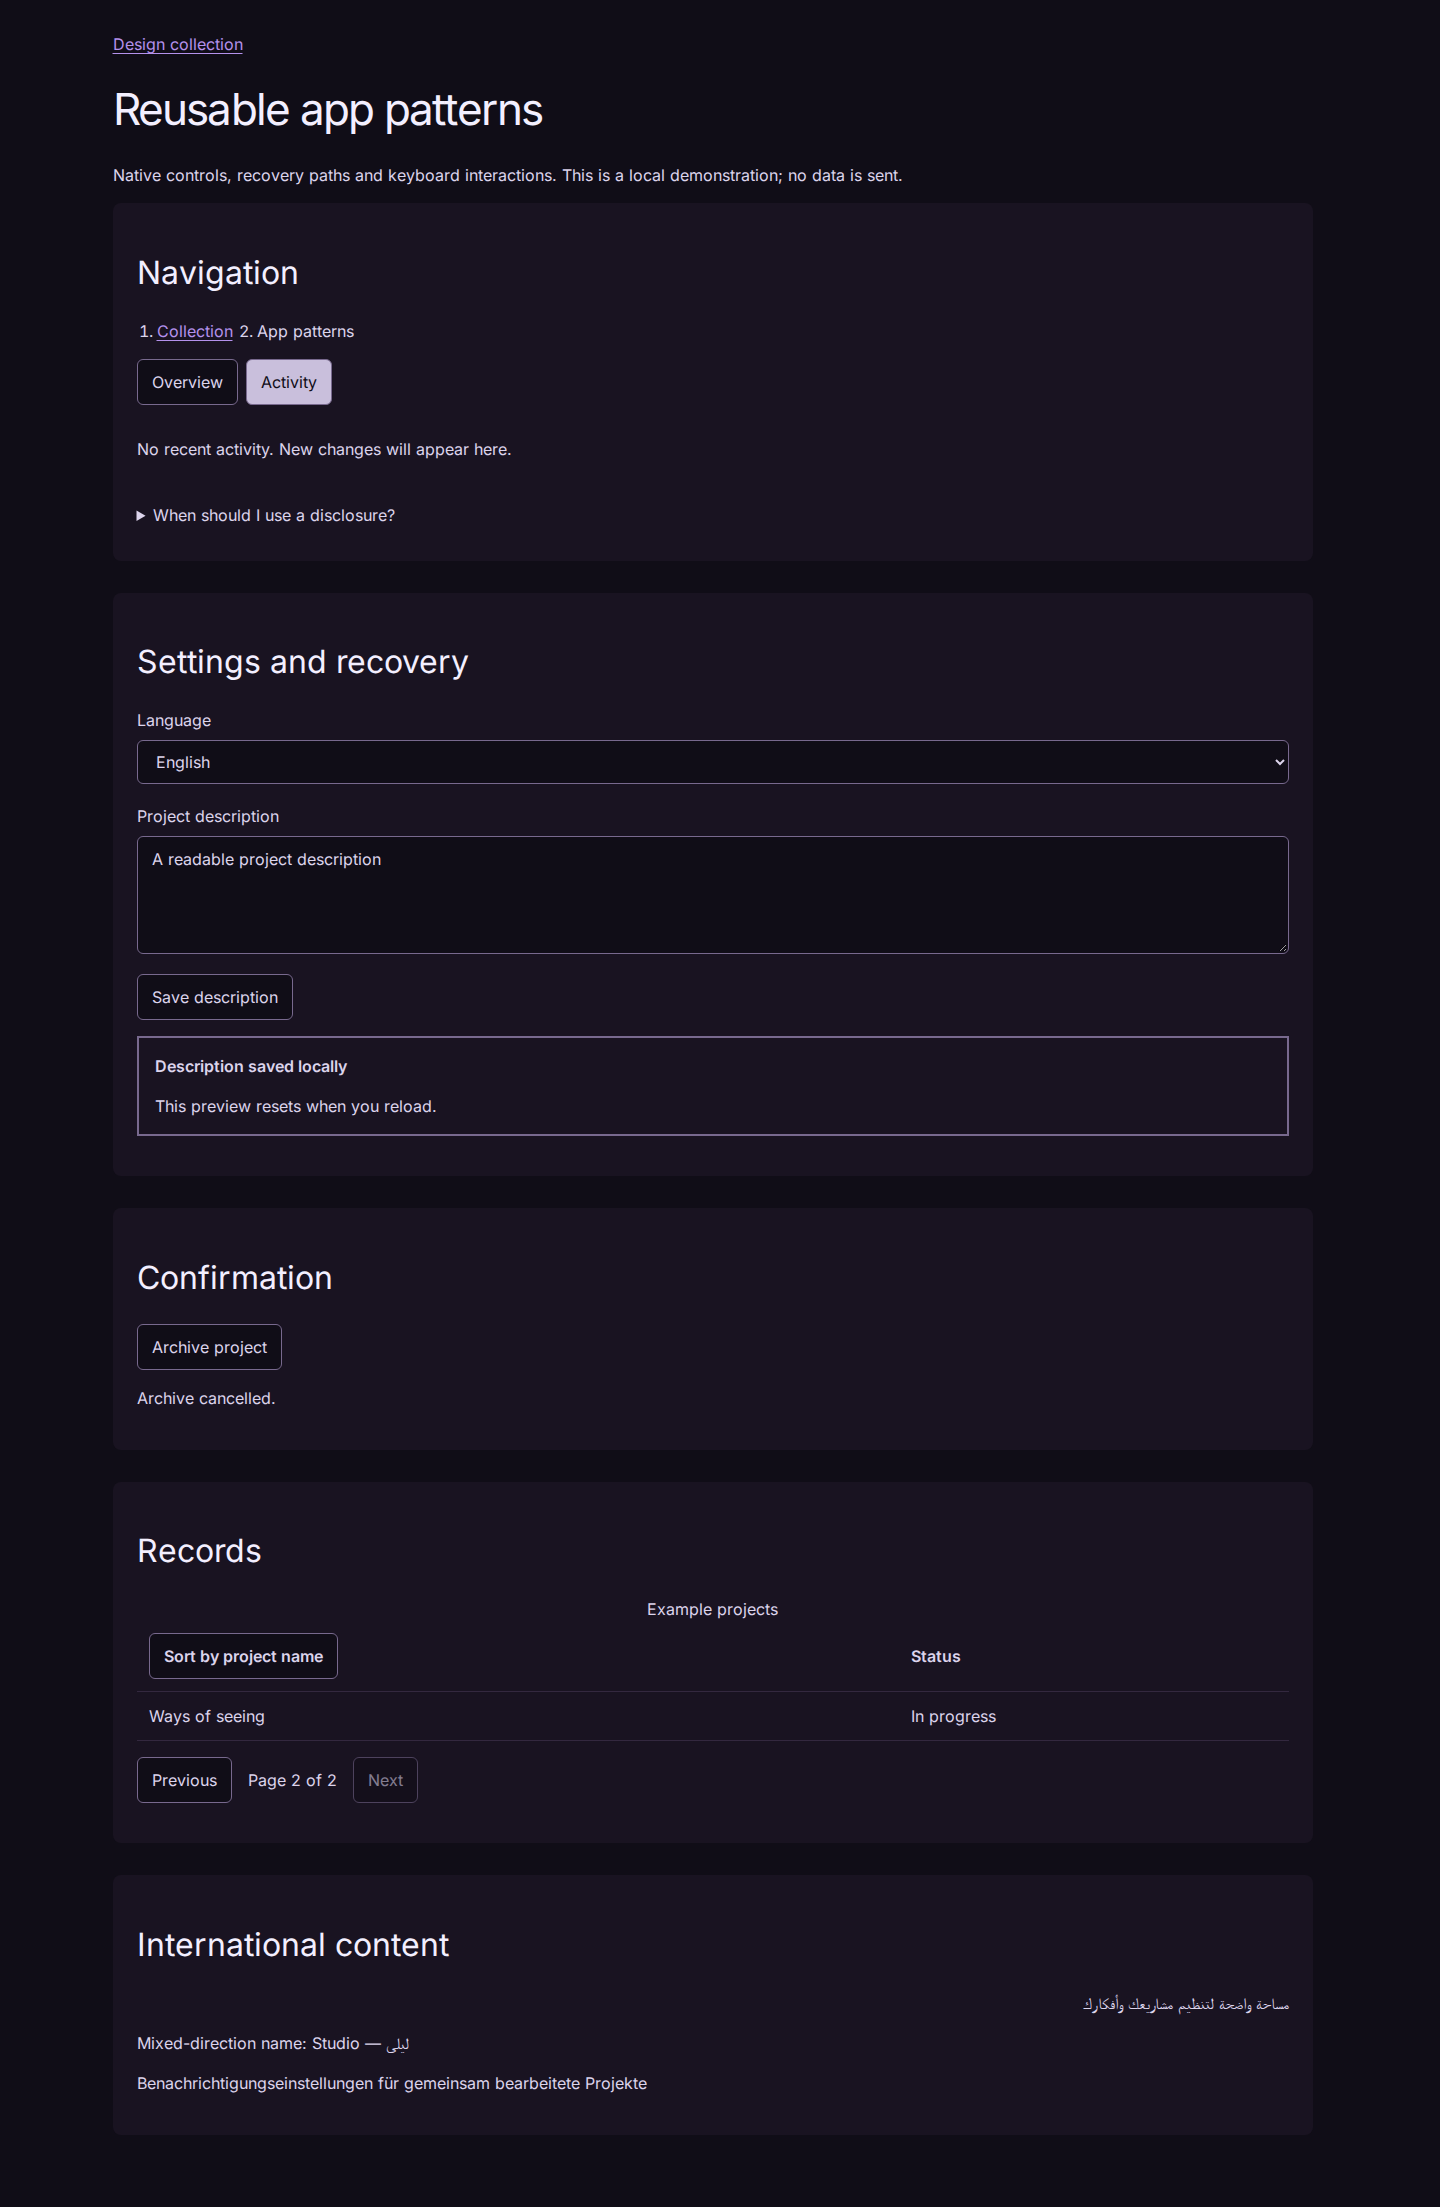
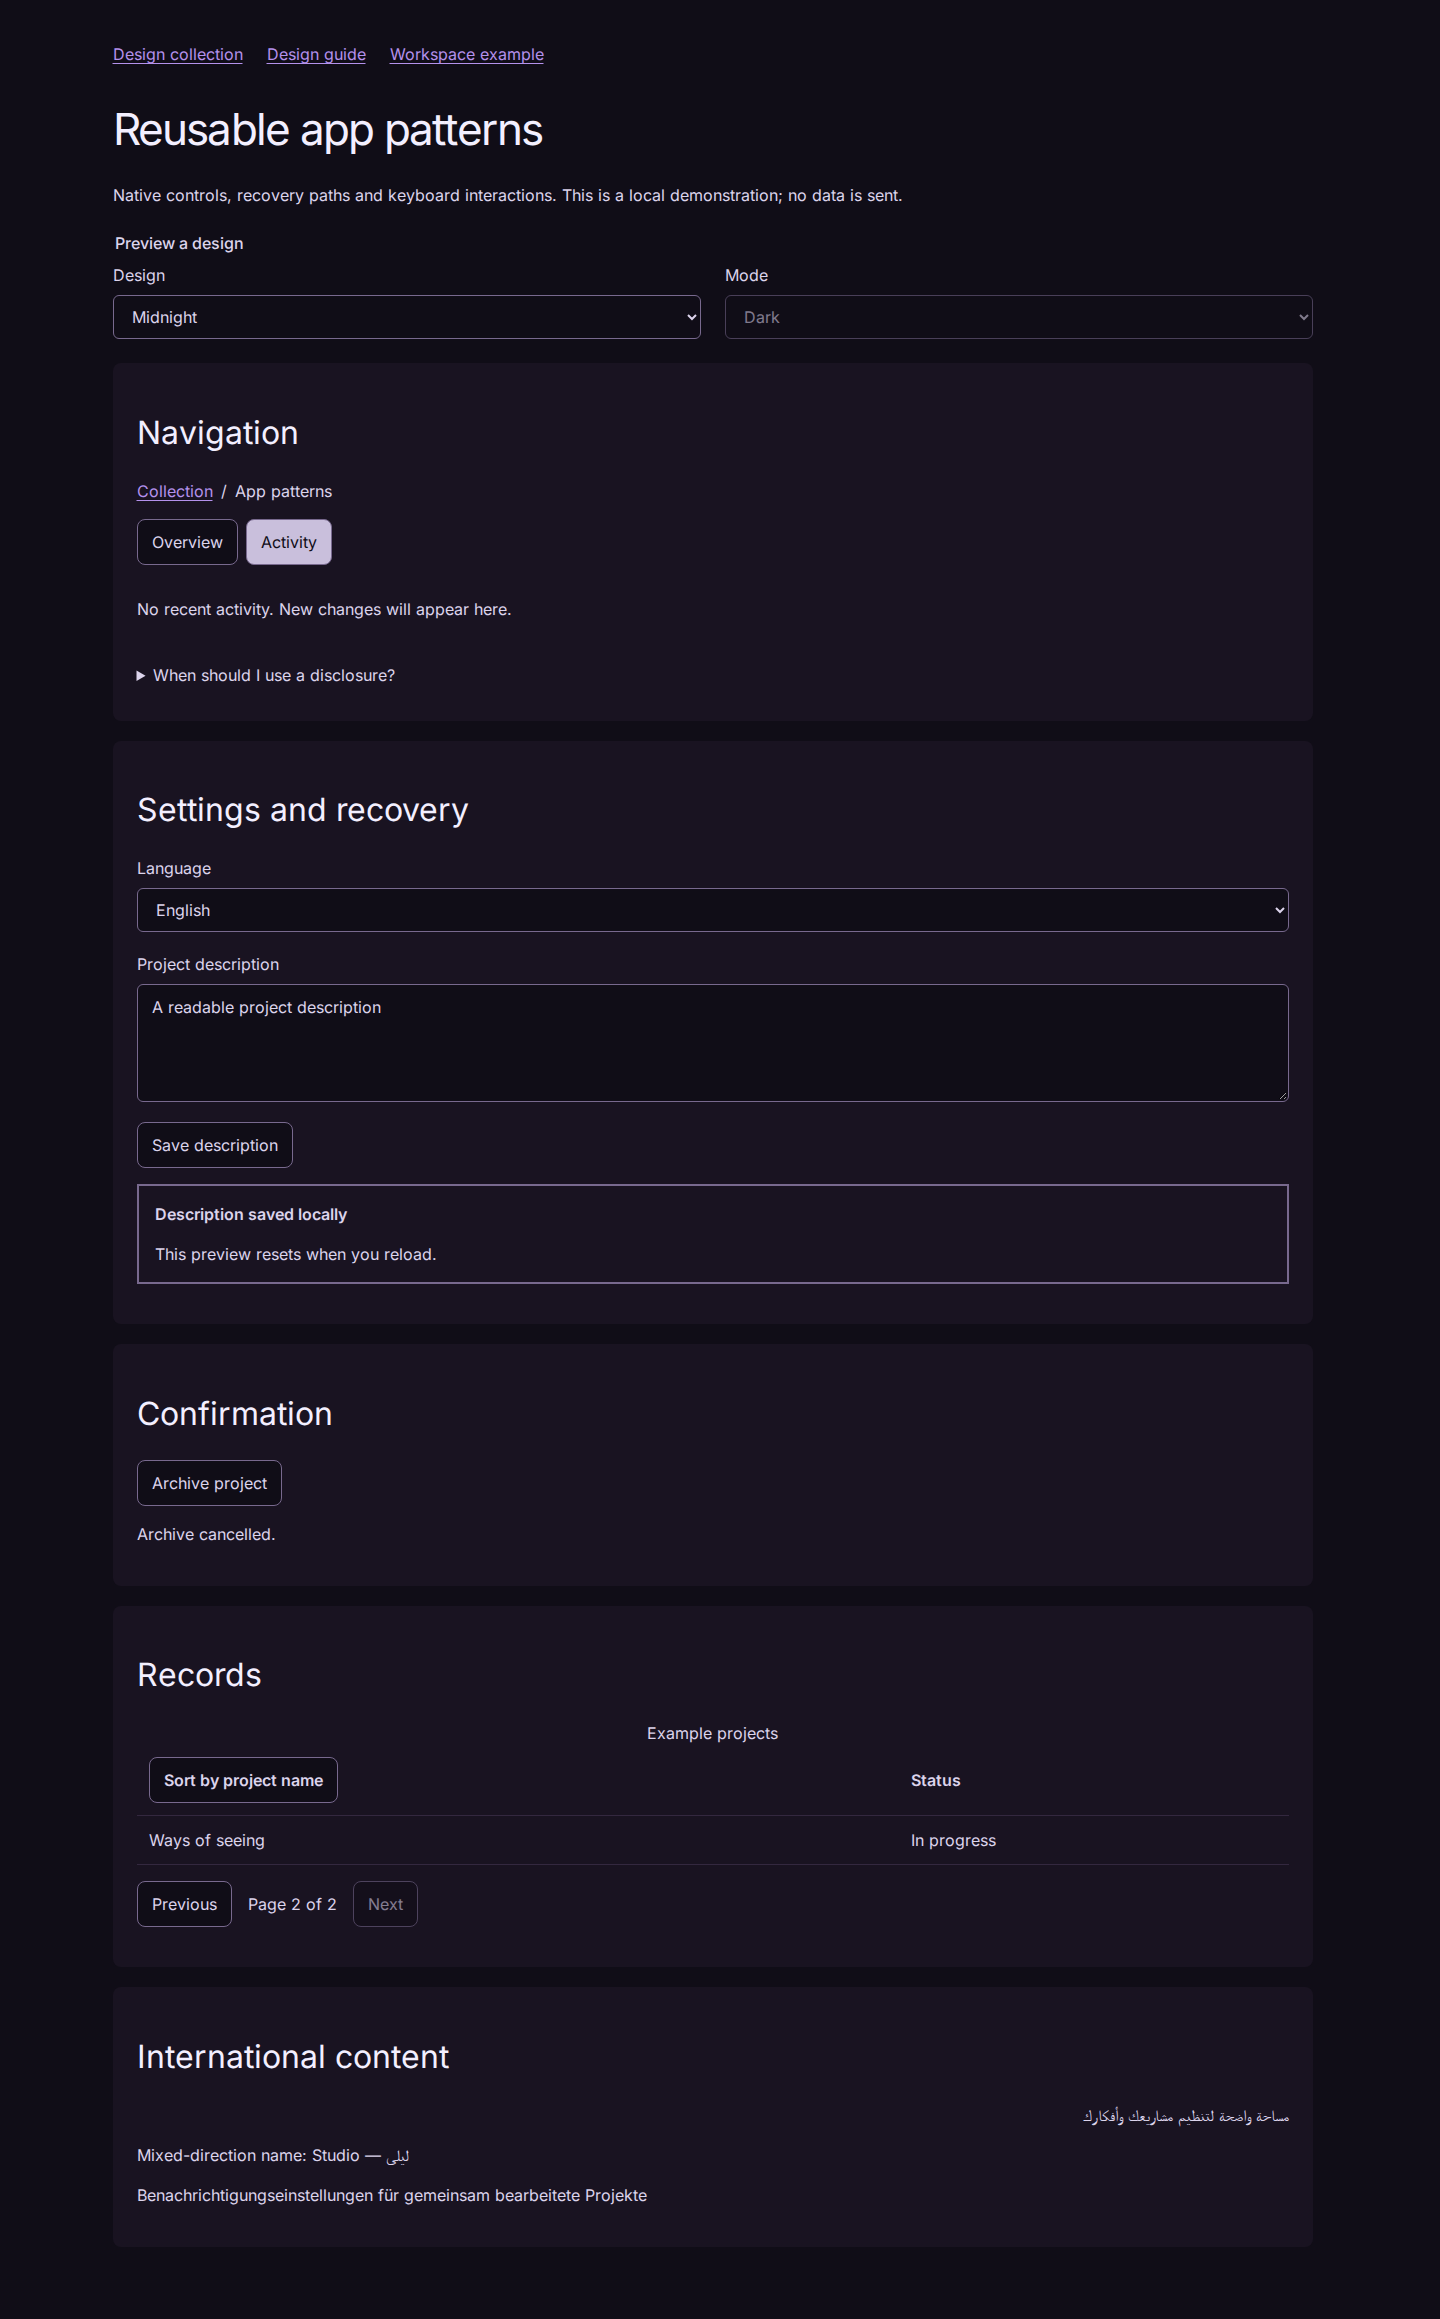
Align reviewed pattern previews and expand modal keyboard checks

diff --git a/docs/releases.md b/docs/releases.md
@@ -7,6 +7,7 @@ Midnight/dark remains the default. This minor release corrects the Preview resol
 - Dark-only DTCG resolvers now use unconditional sets. Before: a consumer passed `{ "mode": "dark" }` to every resolver. After: pass `{}` to Midnight, Invitation and the default bundle; multi-mode bundles still accept a mode input. Read exports/manifest.json for declared modes and follow resolutionOrder instead of assuming a modifier exists.
 - Pattern CSS scopes table/dialog/tab styling to its own components. Generated helpers carry their hooks automatically. For copied table compositions, add ds-table, ds-table-scroll and ds-table-controls to the corresponding elements. Keep existing application classes as needed. The prior broad table/dialog rules were an unintended side effect and are removed.
 - Pattern buttons and panel spacing follow the selected design's geometry. Breadcrumbs show navigation hierarchy, and form feedback clears when its saved state becomes stale.
+- Confirmation now wraps Tab and Shift+Tab inside the active dialog and removes its handler on close, while preserving Escape and return focus.
 - The patterns preview switches designs/modes without discarding local drafts, supports history, and links the exact selected-mode guide.
 - Browser checks now use usable clientWidth, verify design geometry, modal focus containment, sorting, stale feedback and host-component isolation. Visual failures no longer prevent later task checks from running.
 

diff --git a/docs/components.md b/docs/components.md
@@ -52,4 +52,6 @@ The patterns fixture demonstrates a captioned sortable table and bounded paginat
 
 Pattern styling is opt-in: helpers emit ds-select, ds-textarea, ds-dialog and data-ds-tabs hooks. Tables use ds-table inside ds-table-scroll, with ds-table-controls for pagination. Unrelated tables, dialogs and tab widgets retain their styling and event handling. enhancePatterns acts only on its own tab groups inside the supplied root. Keep the returned cleanup function when unmounting. Button corners, input corners, panel padding and section gaps use the selected design's separate appearance values.
 
+openConfirmation wraps Tab and Shift+Tab between the dialog's visible, enabled controls, preserves native Escape, resets prior results and returns focus to the opener on close. Its key handler is removed on close. Controls hidden by CSS, disabled or inside an inert region are omitted from the loop; browser shortcuts and already-handled widget keys are preserved.
+
 The patterns preview has design/mode controls with URL/history state. Switching design preserves form content; reloading resets the local example. Its design-guide link points to the exact mode. Text-spacing stress rules live only in the preview stylesheet, not in the reusable component styles.
